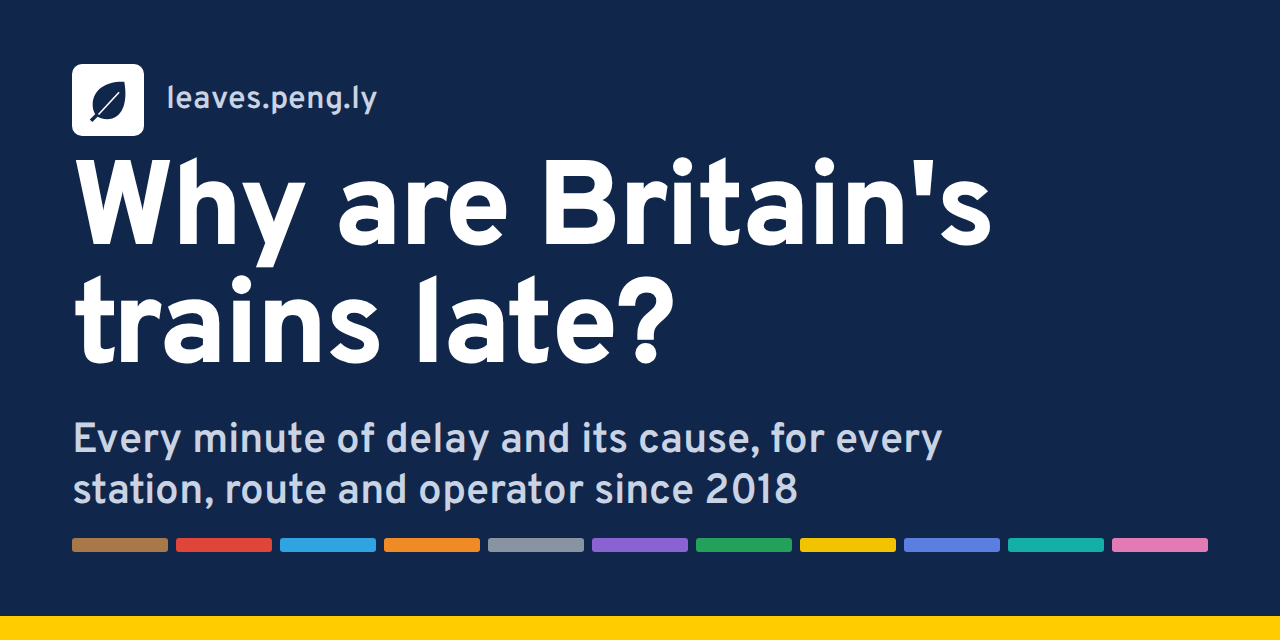
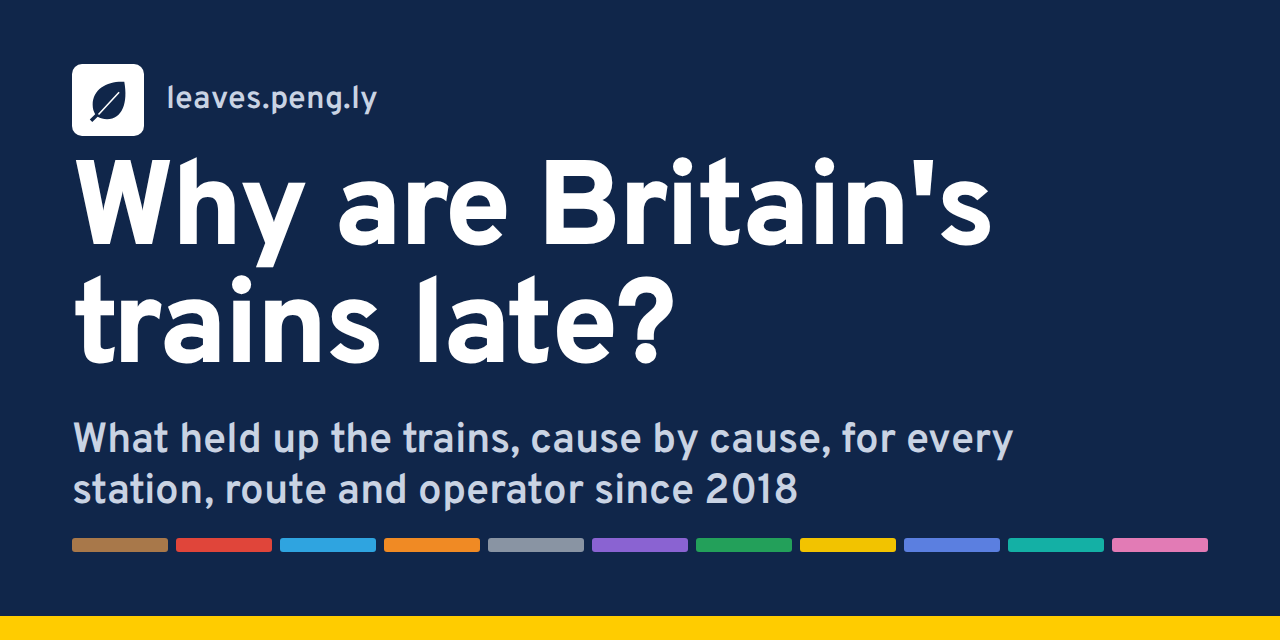
fix: a homepage line and share card that don't claim every minute

Changed region(s): [[0.0625, 0.6562, 0.8125, 0.7188]]

diff --git a/src/routes/+page.svelte b/src/routes/+page.svelte
@@ -153,7 +153,7 @@
     <div class="intro">
       <h1 id="title">Why are Britain's trains late?</h1>
       <p class="lede">
-        We track the reason for every minute of delay on Britain's passenger trains.
+        Network Rail puts a cause on every delay. Here's what they add up to, month by month.
       </p>
       <Search id="home-search" large label="Find your station" />
       <p class="aside">
